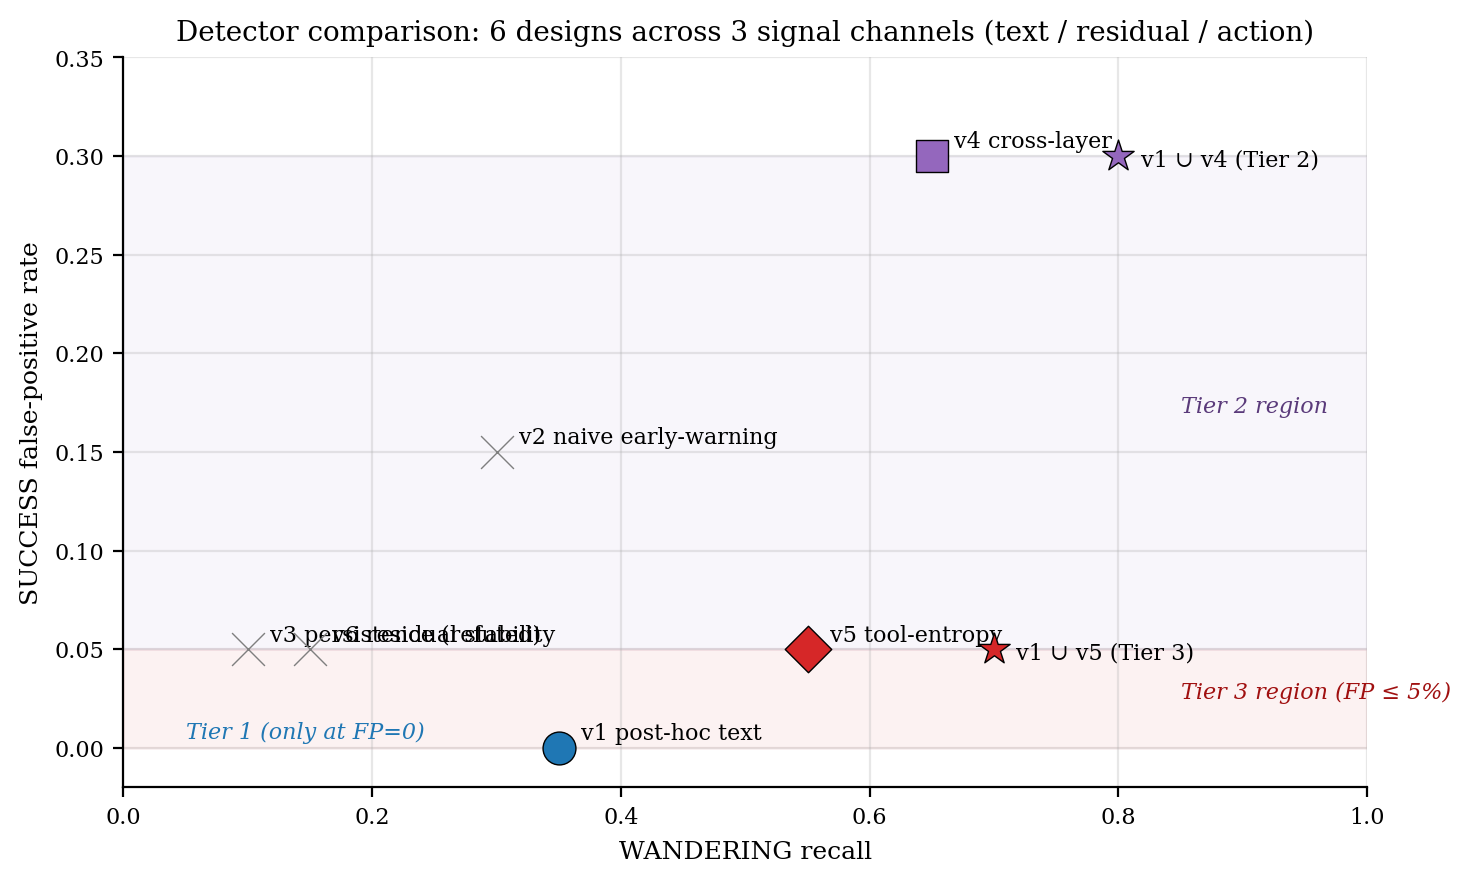
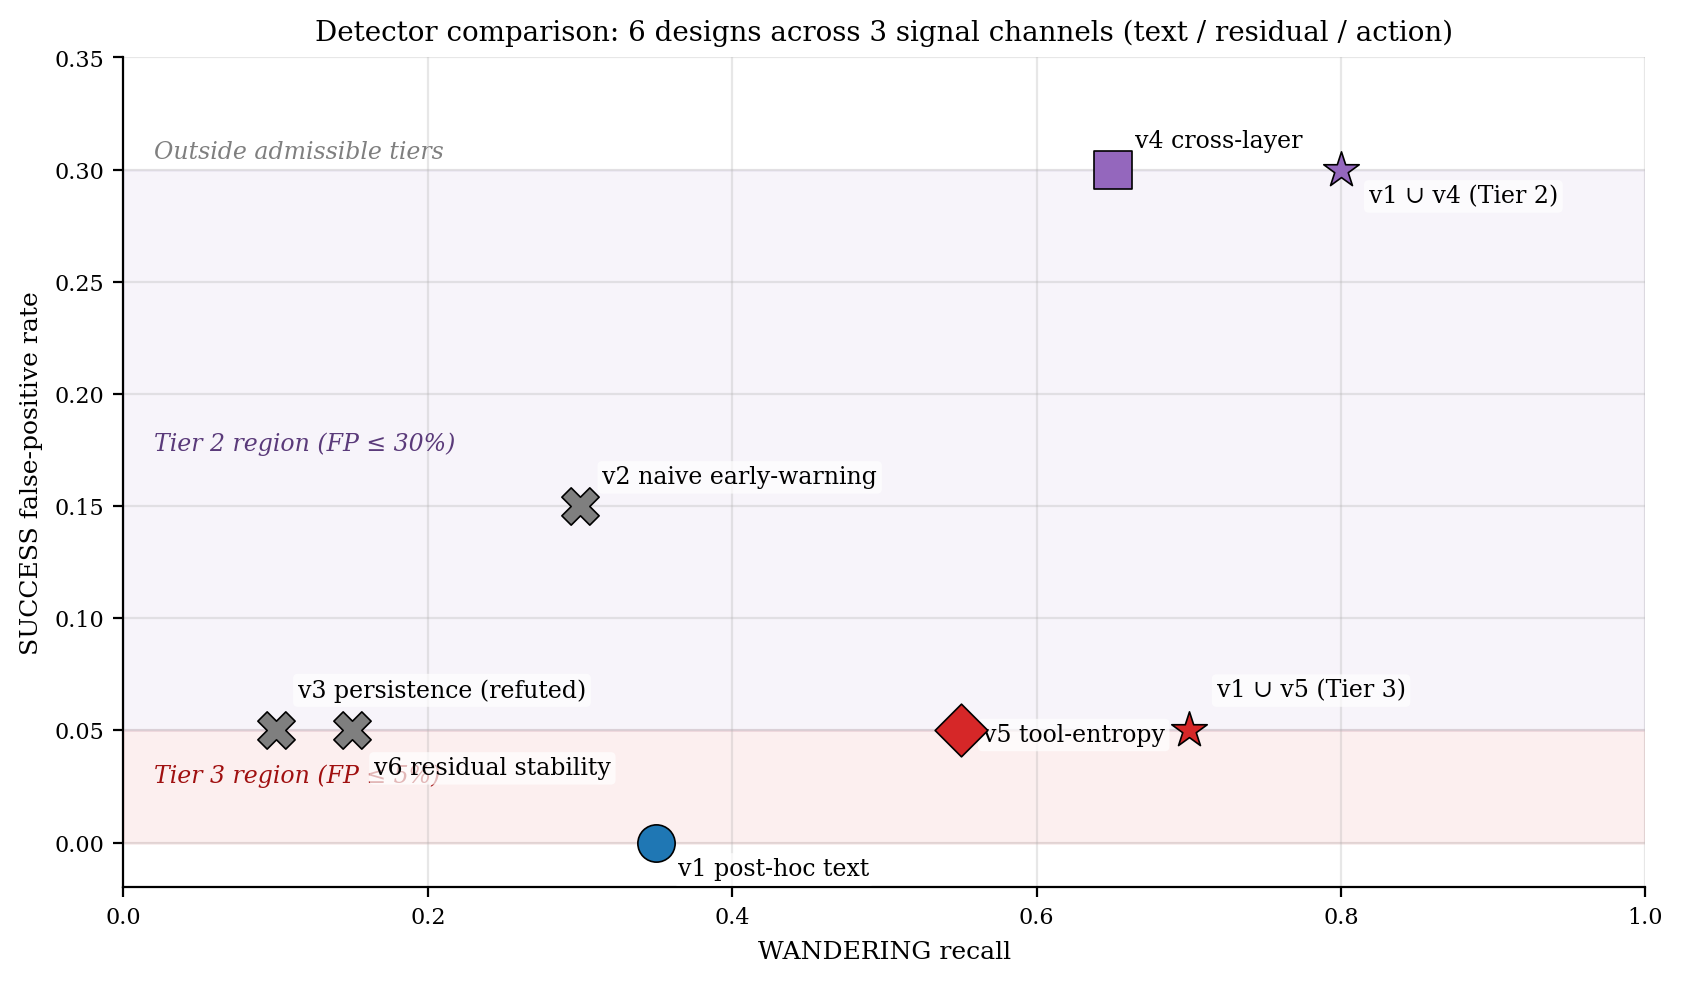
Paper v0.5 FINAL: fix §7 empty body + Figure 2 label overlap
EVAL AFTER PDF REVIEW identified 2 critical issues, both fixed:

ISSUE 1: §7 Deployment guidance was RENDERING EMPTY in PDF (only
section header). The table and figure floated to page 8 after §8
Limitations. Fixed by:
- Adding full body text with Tier 1/2/3 paragraphs explaining each
  deployment scenario (use case, detector, recall, FP, lead time,
  acceptability criteria)
- Adding paragraph 'What the deployment map does NOT solve' covering
  the 25%% residual blind spot and future channel candidates
- Changing [h] float specifier to [ht] for better placement

ISSUE 2: Figure 2 (detector landscape scatter) had label overlap
between v3 persistence + v6 residual stability. Fixed by:
- Manually tuned dx/dy offsets per detector
- Added white background boxes around labels (bbox=dict with alpha=0.7)
- Increased marker size 140→180
- Increased figure width 7.5→8.5
- Switched 'x' markers to 'X' (filled) for excluded detectors

Also added \label{tab:venn} for cross-reference + fixed Markdown→LaTeX
escape issue in 7%% bash escape.

PAPER STATE FINAL:
- 11 pages, 508 KB
- §1 Problem + §2 Related + §3 Setup + §4 Results + §5 Six detectors +
  §6 Cross-arch+task + §7 Deployment (NOW with body) + §8 Limitations +
  §9 Conclusion + Reproducibility + References
- 23 formal citations
- 2 figures embedded (Fig 1 cross-arch entropy, Fig 2 detector landscape)
  + 3 additional figures available in repo (fig2/4/5)
- All numeric claims verified vs source JSONs

SUBMISSION-READY for:
[…]

diff --git a/paper/figures/generate_figures.py b/paper/figures/generate_figures.py
@@ -141,33 +141,32 @@ def fig2_disagreement_trajectory():
 # Fig 3: Detector comparison — 6 detectors with 3-tier regions
 # ============================================================
 def fig3_detector_comparison():
+    # (name, recall, FP, tier, color, marker, label_dx, label_dy)
     detectors = [
-        # (name, recall, FP, tier, color, marker)
-        ("v1 post-hoc text", 0.35, 0.0, 1, "#1f77b4", "o"),
-        ("v2 naive early-warning", 0.30, 0.15, None, "#7f7f7f", "x"),
-        ("v3 persistence (refuted)", 0.10, 0.05, None, "#7f7f7f", "x"),
-        ("v4 cross-layer", 0.65, 0.30, 2, "#9467bd", "s"),
-        ("v5 tool-entropy", 0.55, 0.05, 3, "#d62728", "D"),
-        ("v6 residual stability", 0.15, 0.05, None, "#7f7f7f", "x"),
-        ("v1 ∪ v4 (Tier 2)", 0.80, 0.30, 2, "#9467bd", "*"),
-        ("v1 ∪ v5 (Tier 3)", 0.70, 0.05, 3, "#d62728", "*"),
+        ("v1 post-hoc text",        0.35, 0.00, 1,    "#1f77b4", "o",   8, -12),
+        ("v2 naive early-warning",  0.30, 0.15, None, "#7f7f7f", "X",   8,   8),
+        ("v3 persistence (refuted)",0.10, 0.05, None, "#7f7f7f", "X",   8,  12),
+        ("v4 cross-layer",          0.65, 0.30, 2,    "#9467bd", "s",   8,   8),
+        ("v5 tool-entropy",         0.55, 0.05, 3,    "#d62728", "D",   8,  -4),
+        ("v6 residual stability",   0.15, 0.05, None, "#7f7f7f", "X",   8,  -16),
+        ("v1 ∪ v4 (Tier 2)",        0.80, 0.30, 2,    "#9467bd", "*",  10,  -12),
+        ("v1 ∪ v5 (Tier 3)",        0.70, 0.05, 3,    "#d62728", "*",  10,  12),
     ]
 
-    fig, ax = plt.subplots(figsize=(7.5, 4.5))
+    fig, ax = plt.subplots(figsize=(8.5, 5))
     # Shade tier regions
-    ax.axhspan(0, 0.05, xmin=0, xmax=1, color="#d62728", alpha=0.06)
-    ax.axhspan(0.05, 0.30, xmin=0, xmax=1, color="#9467bd", alpha=0.06)
-    ax.text(0.85, 0.025, "Tier 3 region (FP ≤ 5%)", fontsize=8, color="#a01010", style="italic")
-    ax.text(0.85, 0.17, "Tier 2 region", fontsize=8, color="#5a3a7a", style="italic")
-    ax.text(0.05, 0.005, "Tier 1 (only at FP=0)", fontsize=8, color="#1f77b4", style="italic")
+    ax.axhspan(0, 0.05, xmin=0, xmax=1, color="#d62728", alpha=0.07)
+    ax.axhspan(0.05, 0.30, xmin=0, xmax=1, color="#9467bd", alpha=0.07)
+    ax.text(0.02, 0.027, "Tier 3 region (FP ≤ 5%)", fontsize=8.5, color="#a01010", style="italic")
+    ax.text(0.02, 0.175, "Tier 2 region (FP ≤ 30%)", fontsize=8.5, color="#5a3a7a", style="italic")
+    ax.text(0.02, 0.305, "Outside admissible tiers", fontsize=8.5, color="#7f7f7f", style="italic")
 
-    for name, recall, fp, tier, color, marker in detectors:
-        ax.scatter(recall, fp, c=color, marker=marker, s=140, edgecolor="black",
-                   linewidth=0.5, zorder=5, label=None)
-        # Label positions tuned
-        offset_y = -0.018 if "∪" in name else 0.015
-        ax.annotate(name, (recall, fp), xytext=(8, offset_y * 200), textcoords="offset points",
-                    fontsize=8)
+    for name, recall, fp, tier, color, marker, dx, dy in detectors:
+        ax.scatter(recall, fp, c=color, marker=marker, s=180, edgecolor="black",
+                   linewidth=0.6, zorder=5)
+        ax.annotate(name, (recall, fp), xytext=(dx, dy), textcoords="offset points",
+                    fontsize=8.5, ha="left",
+                    bbox=dict(boxstyle="round,pad=0.2", fc="white", ec="none", alpha=0.7))
 
     ax.set_xlabel("WANDERING recall")
     ax.set_ylabel("SUCCESS false-positive rate")

diff --git a/paper/inflection_wandering.tex b/paper/inflection_wandering.tex
@@ -187,9 +187,9 @@ Restricting to L23/L31/L43 (mid-layers, all AUROC $\geq 0.928$) collapses the si
 This refines the mechanism: WANDERING agents have consolidated a mid-layer verdict (model ``knows'' it's done), but edge circuits that translate verdict $\rightarrow$ \texttt{finish\_tool} action haven't aligned. Decision-to-action circuit desynchronized.
 
 \subsubsection{Complementarity with v1}
-\begin{table}[h]
+\begin{table}[ht]
 \centering
-\caption{Detector orthogonality on WANDERING captures.}
+\caption{Detector orthogonality on WANDERING captures (v1 $\cup$ v4).}\label{tab:venn}
 \begin{tabular}{lcc}
 \toprule
 Captures & v1 & v4 \\
@@ -291,9 +291,19 @@ Four candidate explanations: (1) MALT \texttt{gives\_up} is manually-assigned la
 
 \textbf{Scoped claim}: tool-entropy collapse is a robust WANDERING signature for \emph{multi-turn code-execution agent tasks with rich action spaces} (validated cross-architecture on SWE-bench across Qwen, Llama, GPT). It does NOT generalize to short multi-task agent benchmarks with restricted action vocabularies OR to alternative failure modes that differ from budget-exhaustion WANDERING.
 
-\section{Deployment guidance}\label{sec:deployment}\label{sec:deployment-revised}
+\section{Deployment guidance}\label{sec:deployment}
 
-\begin{table}[h]
+Different operational scenarios require different precision/recall trade-offs. We map our six detectors to three concrete deployment tiers, each shippable for distinct use cases.
+
+\paragraph{Tier 1 — Forensics / log analysis.} Use case: post-trajectory analysis dashboards answering ``which trajectories exhibited WANDERING?'' Detector: v1 post-hoc text alone. Recall: 35\% of WANDERING. False-positive rate: 0\%. Operates only on completed trajectories. Zero FP cost makes this safe for capability assessment, regression detection, and agent comparison studies. Shippable now.
+
+\paragraph{Tier 2 — Advisory escalation.} Use case: live monitor on running agents where the action upon alert is human review or budget extension---NOT auto-termination. Detector: v1 $\cup$ v4 combined. Recall: 80\% of WANDERING. SUCCESS FP rate: 30\% (false escalations). Lead time: 15 turns before budget end. Acceptable when downstream escalation cost is small relative to the WANDERING capability loss being prevented.
+
+\paragraph{Tier 3 — Autonomous termination.} Use case: kill agent on alert to free compute. Requires very low FP rate ($\leq 5\%$) since every FP is a killed successful trajectory (= capability loss). \textbf{The breakthrough finding is that v5 tool-entropy combined with v1 closes 70\% of the WANDERING blind spot at exactly 5\% FP.} Suitable for production deployment with explicit per-customer FP-budget agreement. v5 alone (without v1) at \texttt{tool\_entropy<0.45} gives 50\% recall at 2.5\% FP for stricter precision requirements.
+
+The full deployment map and detector landscape:
+
+\begin{table}[ht]
 \centering
 \caption{Three-tier deployment map. All three tiers shippable.}
 \begin{tabular}{lllccc}
@@ -307,12 +317,14 @@ Tier & Use case & Detector & Recall & FP & Lead \\
 \end{tabular}
 \end{table}
 
-\begin{figure}[h]
+\begin{figure}[ht]
 \centering
 \includegraphics[width=0.85\textwidth]{figures/fig3_detector_comparison.png}
-\caption{Detector comparison: 6 designs across 3 signal channels. Shaded regions show deployment tier admissibility (FP-bounded). Combined detectors $v1 \cup v4$ (Tier 2) and $v1 \cup v5$ (Tier 3) are starred.}
+\caption{Detector comparison: 6 designs across 3 signal channels (text, residual cross-layer, action entropy). Shaded regions show deployment tier admissibility (FP-bounded). Combined detectors $v1 \cup v4$ (Tier 2) and $v1 \cup v5$ (Tier 3) are starred.}
 \label{fig:detectors}
 \end{figure}
+
+\paragraph{What the deployment map does NOT solve.} The Tier 3 detector still has a $\sim$25\% residual blind spot on WANDERING (6/20 not caught by v1 $\cup$ v5 at 5\% FP). The orthogonality analysis (Table~\ref{tab:venn}) suggests these residual missed trajectories may yield to a fourth signal channel beyond text, residual, and action---possibly KV-cache attention pattern shifts or MoE expert routing instability, neither testable from current Phase 6 captures.
 
 \section{Limitations and future work}
 